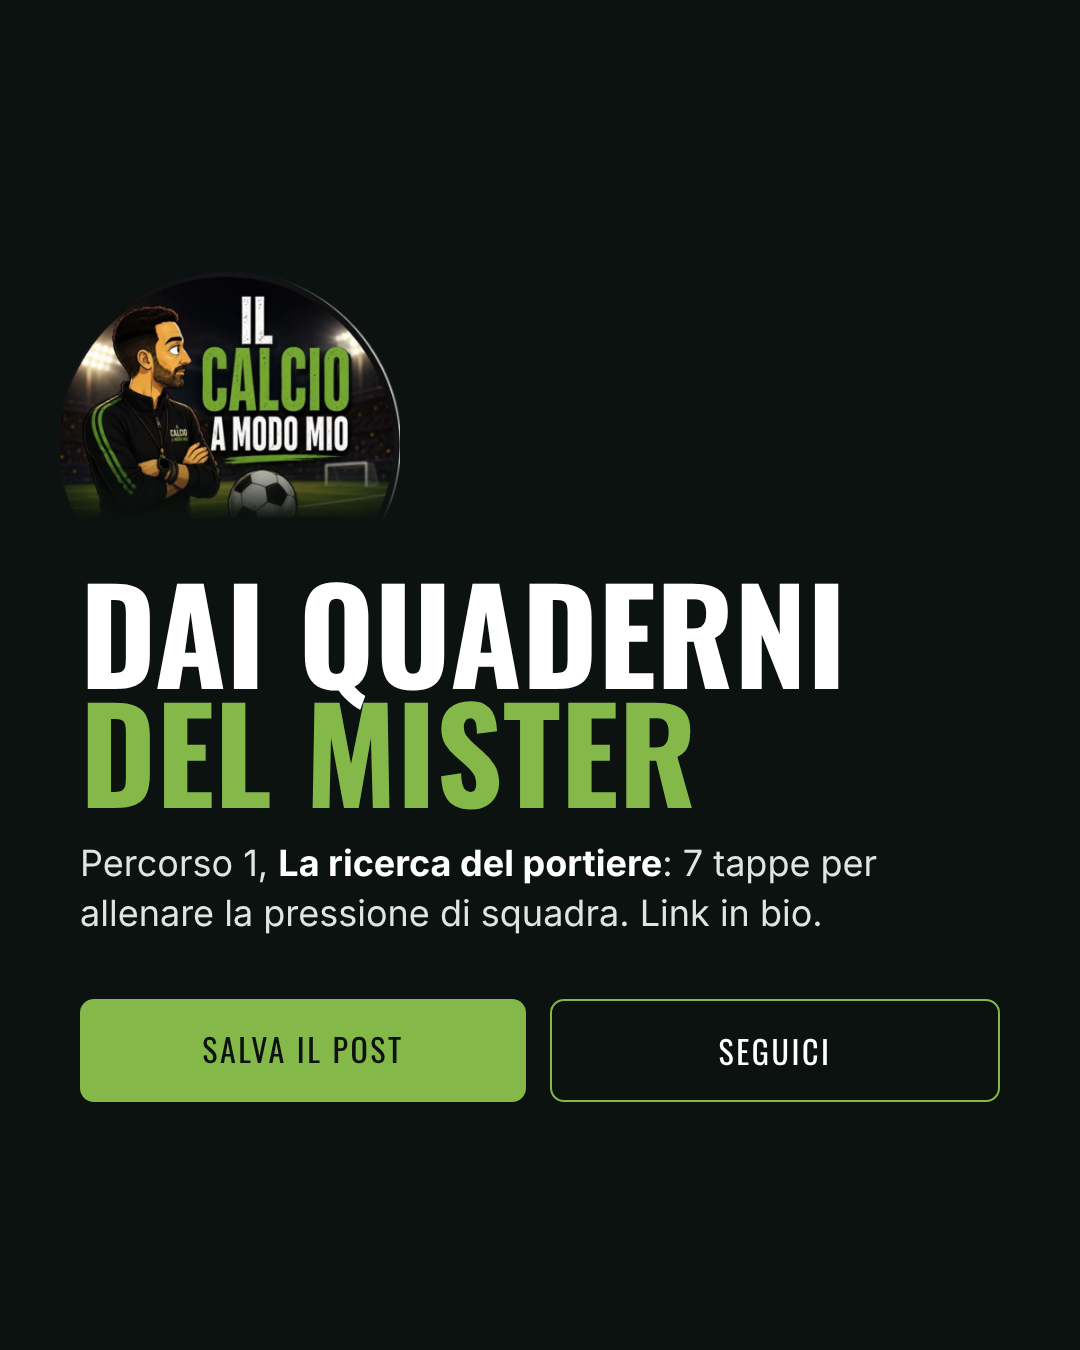
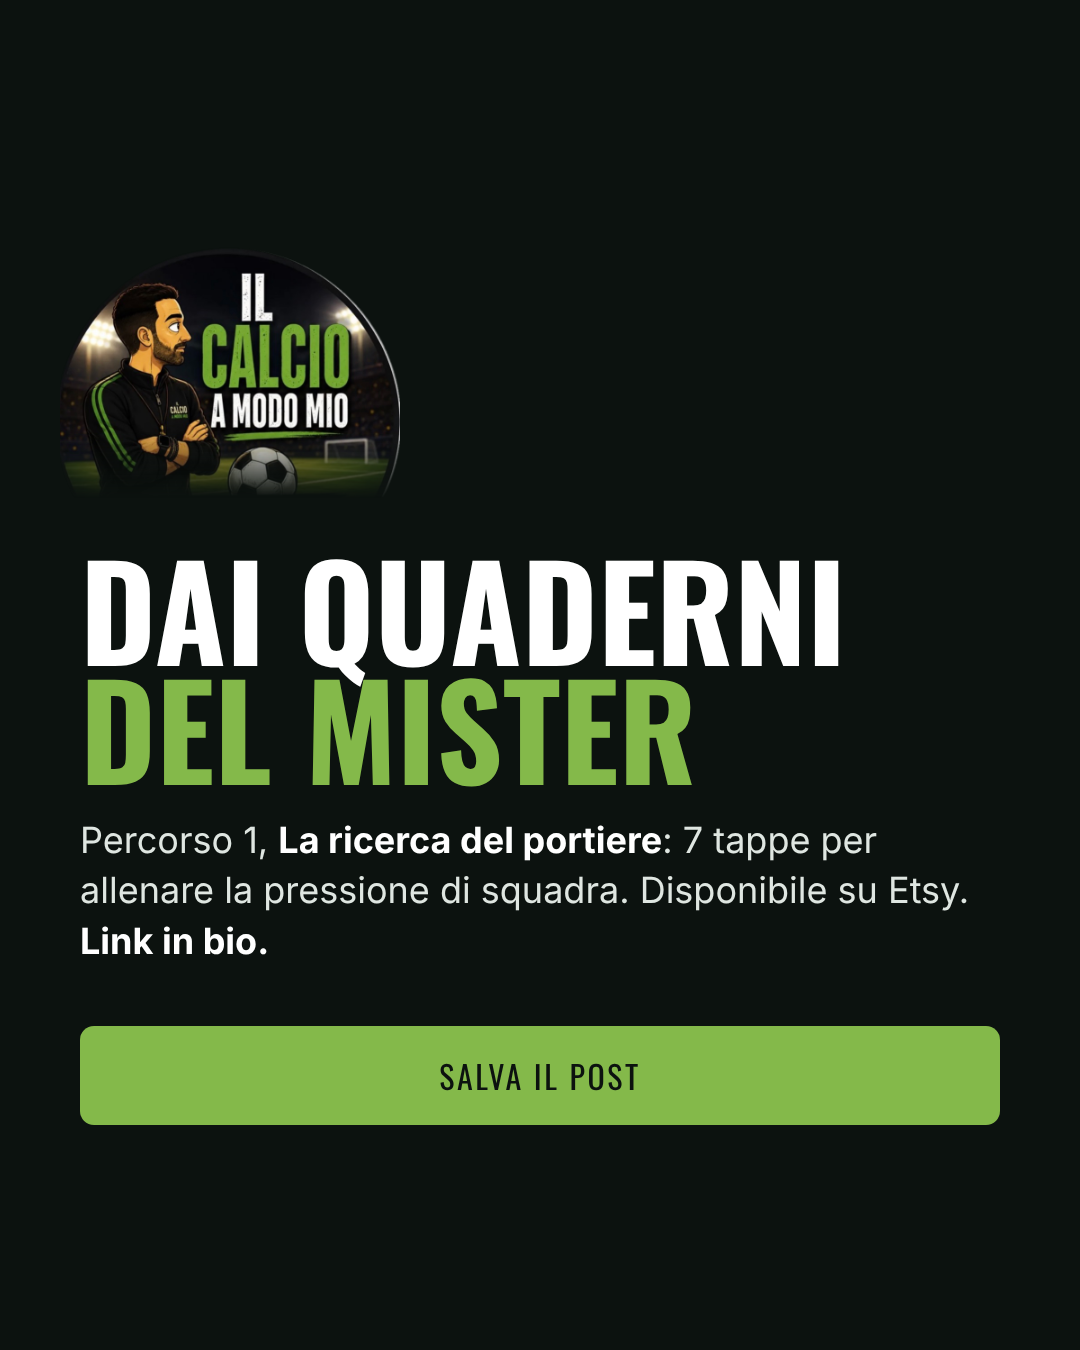
Post 9: chiusura più chiara (Etsy, un solo invito)
Claude-Session: https://claude.ai/code/session_01SKxmbbNKCopJuCUrYoDZaV

Changed region(s): [[0.0611, 0.1867, 0.9472, 0.84]]

diff --git a/marketing/social/post-solo9-9x16.html b/marketing/social/post-solo9-9x16.html
@@ -106,6 +106,6 @@ h1, h2 { font-family: Oswald, sans-serif; font-weight: 700; text-transform: uppe
 <section class="slide fine">
   <img class="logo2" src="../../materiale/brand/logo-cerchio.png">
   <h1>Dai quaderni<span>del mister</span></h1>
-  <p class="sub">Percorso 1, <b>La ricerca del portiere</b>: 7 tappe per allenare la pressione di squadra. Cercaci: <b>ilcalcioamodomio</b>.</p>
-  <div class="azioni"><div>Salva il post</div><div>Seguici</div></div>
+  <p class="sub">Percorso 1, <b>La ricerca del portiere</b>: 7 tappe per allenare la pressione di squadra. Disponibile su Etsy: <b>ilcalcioamodomio</b>.</p>
+  <div class="azioni"><div>Salva il post</div></div>
 </section></body></html>

diff --git a/marketing/social/post-solo9-4x5.html b/marketing/social/post-solo9-4x5.html
@@ -106,6 +106,6 @@ h1, h2 { font-family: Oswald, sans-serif; font-weight: 700; text-transform: uppe
 <section class="slide fine">
   <img class="logo2" src="../../materiale/brand/logo-cerchio.png">
   <h1>Dai quaderni<span>del mister</span></h1>
-  <p class="sub">Percorso 1, <b>La ricerca del portiere</b>: 7 tappe per allenare la pressione di squadra. Link in bio.</p>
-  <div class="azioni"><div>Salva il post</div><div>Seguici</div></div>
+  <p class="sub">Percorso 1, <b>La ricerca del portiere</b>: 7 tappe per allenare la pressione di squadra. Disponibile su Etsy. <b>Link in bio.</b></p>
+  <div class="azioni"><div>Salva il post</div></div>
 </section></body></html>

diff --git a/marketing/social/genera-post.py b/marketing/social/genera-post.py
@@ -282,9 +282,9 @@ POST = [
         titolo3="Un bersaglio per muoversi insieme",
         punti=["Il <b>portiere avversario</b> diventa il bersaglio",
                "Attorno a lui si <b>costruisce</b>, si <b>organizza</b> e si <b>codifica</b> la pressione"],
-        fine_sub="Percorso 1, <b>La ricerca del portiere</b>: 7 tappe per allenare la pressione di squadra. Link in bio.",
-        fine_sub_tt="Percorso 1, <b>La ricerca del portiere</b>: 7 tappe per allenare la pressione di squadra. Cercaci: <b>ilcalcioamodomio</b>.",
-        azioni=["Salva il post", "Seguici"],
+        fine_sub="Percorso 1, <b>La ricerca del portiere</b>: 7 tappe per allenare la pressione di squadra. Disponibile su Etsy. <b>Link in bio.</b>",
+        fine_sub_tt="Percorso 1, <b>La ricerca del portiere</b>: 7 tappe per allenare la pressione di squadra. Disponibile su Etsy: <b>ilcalcioamodomio</b>.",
+        azioni=["Salva il post"],
     ),
 ]
 

diff --git a/marketing/social/testi-dei-post.md b/marketing/social/testi-dei-post.md
@@ -190,10 +190,10 @@ Immagini: `marketing/social/immagini/ig-fb-post9-1…4.png` (4:5) e `tiktok-post
 Pressare è un'azione individuale.
 Farlo insieme è un comportamento che si allena.
 Non basta insegnare a un giocatore quando uscire sull'avversario. Bisogna insegnare agli altri cosa fare mentre lui ci va.
-Nel Percorso 1 il portiere avversario diventa il bersaglio attorno al quale si costruisce, si organizza e si codifica la pressione. Il link è nella bio.
+Nel Percorso 1 il portiere avversario diventa il bersaglio attorno al quale si costruisce, si organizza e si codifica la pressione. Disponibile su Etsy. Il link è nella bio.
 
 #allenatoredicalcio #pressing #calcio #mister #allenamentocalcio
 
-**TikTok** (nell'ultima immagine c'è scritto «Cercaci: ilcalcioamodomio»)
+**TikTok** (nell'ultima immagine c'è scritto «Disponibile su Etsy: ilcalcioamodomio»)
 
-Pressare è individuale. Farlo insieme è un comportamento che si allena. Percorso in 7 tappe su Etsy. #allenatore #calcio #pressing #mister
+Pressare è individuale. Farlo insieme è un comportamento che si allena. Percorso in 7 tappe, disponibile su Etsy: ilcalcioamodomio. #allenatore #calcio #pressing #mister
